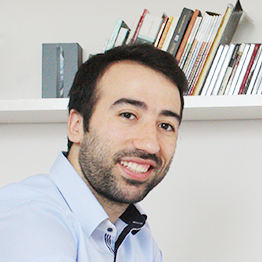
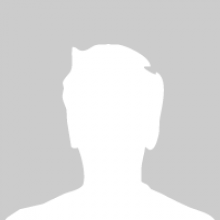
Theme Customization
Cover Image, Avatar, Title, header and footer custom codes can set from
Theme Customization section on Wp Panel.

diff --git a/functions.php b/functions.php
@@ -88,3 +88,188 @@ function set_infinite_scrolling()
 
 add_action('wp_footer', 'set_infinite_scrolling', 100);
 
+
+// --------------------------------------------------------
+// Theme Customizations
+
+include_once ABSPATH . 'wp-includes/class-wp-customize-control.php';
+
+class S_Report_Textarea_Custom_Control extends WP_Customize_Control {
+
+  public $type = 'textarea';
+  public $statuses;
+  public function __construct( $manager, $id, $args = array() ) {
+
+  $this->statuses = array( '' => __( 'Default', 's-report' ) );
+    parent::__construct( $manager, $id, $args );
+  }
+
+  public function render_content() {
+    ?>
+    <label>
+      <span class="customize-control-title"><?php echo esc_html( $this->label ); ?></span>
+      <textarea class="large-text" cols="20" rows="5" <?php $this->link(); ?>>
+        <?php echo esc_textarea( $this->value() ); ?>
+      </textarea>
+    </label>
+    <?php
+  }
+}
+
+function s_report_customize_register( $wp_customize ) {
+
+
+  // FAVICON 
+  $wp_customize->add_setting('s_report_theme_options[favicon]', array(
+    'default' => '',
+    'capability' => 'edit_theme_options',
+    'type' => 'option',
+  ));
+  $wp_customize->add_control( new WP_Customize_Image_Control($wp_customize, 'favicon', array(
+    'label' => __('Site Favicon', 's-report'),
+    'section' => 'title_tagline',
+    'settings' => 's_report_theme_options[favicon]',
+  )));
+
+  // CUSTOM HEADER
+  $wp_customize->add_section('s_report_cover_image', array(
+    'title'    => __('Cover image', 's-report'),
+    'priority' => 50,
+  ));
+
+  $wp_customize->add_setting('s_report_theme_options[header_background_image]', array(
+    'default' => get_template_directory_uri().'/img/cover.jpg',
+    'capability' => 'edit_theme_options',
+    'type' => 'option',
+  ));
+  $wp_customize->add_control( new WP_Customize_Image_Control($wp_customize, 'header_background_image', array(
+    'label' => __('Header Image', 's-report'),
+    'section' => 's_report_cover_image',
+    'settings' => 's_report_theme_options[header_background_image]',
+  )));
+  
+  // CUSTOM AVATAR
+  $wp_customize->add_section('s_report_avatar_image', array(
+    'title'    => __('Avatar photo', 's-report'),
+    'priority' => 60,
+  ));
+
+  $wp_customize->add_setting('s_report_theme_options[avatar_image]', array(
+    'default' => get_template_directory_uri().'/img/avatar.png',
+    'capability' => 'edit_theme_options',
+    'type' => 'option',
+  ));
+  $wp_customize->add_control( new WP_Customize_Image_Control($wp_customize, 'avatar_image', array(
+    'label' => __('Avatar Photo', 's-report'),
+    'section' => 's_report_avatar_image',
+    'settings' => 's_report_theme_options[avatar_image]',
+  )));
+  
+  $wp_customize->add_setting('s_report_theme_options[avatar_alt]', array(
+      'default' => 'avatar',
+      'capability' => 'edit_theme_options',
+      'type' => 'option',
+  ));
+  $wp_customize->add_control( new WP_Customize_Control($wp_customize, 'avatar_alt', array(
+    'label'    => __('Alt Text (Name, Description, etc ...)', 's-report'),
+    'section'  => 's_report_avatar_image',
+    'settings' => 's_report_theme_options[avatar_alt]',
+  )));
+
+  // CUSTOM CODE 
+  $wp_customize->add_section('s_report_custom_code', array(
+    'title'    => __('Custom Code', 's-report'),
+    'priority' => 200,
+  ));
+
+  $wp_customize->add_setting('s_report_theme_options[header_code]', array(
+      'default' => '',
+      'capability' => 'edit_theme_options',
+      'type' => 'option',
+  ));
+  $wp_customize->add_control( new S_Report_Textarea_Custom_Control($wp_customize, 'header_code', array(
+    'label'    => __('Header Code (Meta tags, CSS, etc ...)', 's-report'),
+    'section'  => 's_report_custom_code',
+    'settings' => 's_report_theme_options[header_code]',
+  )));
+  
+  $wp_customize->add_setting('s_report_theme_options[footer_code]', array(
+    'default' => '',
+    'capability' => 'edit_theme_options',
+    'type' => 'option',
+  ));
+  $wp_customize->add_control( new S_Report_Textarea_Custom_Control($wp_customize, 'footer_code', array(
+    'label'    => __('Footer Code (Analytics, etc ...)', 's-report'),
+    'section'  => 's_report_custom_code',
+    'settings' => 's_report_theme_options[footer_code]'
+  )));
+}
+add_action( 'customize_register', 's_report_customize_register' );
+
+/**
+ * Get Theme options
+ */
+function s_report_get_theme_option( $option_name, $default = false ) {
+  $options = get_option( 's_report_theme_options' );
+  if( isset($options[$option_name]) && ! empty( $options[$option_name] ) ) {
+    return $options[$option_name];
+  }
+  return $default; 
+}
+
+/**
+ * Header code
+ */
+if( ! function_exists('header_code') ) {
+  function header_code(){
+    $header_code = s_report_get_theme_option('header_code');
+    if ($header_code) {
+      echo $header_code;
+    }
+  }
+  add_action( 'wp_head', 'header_code' );
+}
+
+/**
+ * Footer code
+ */
+if( ! function_exists('footer_code') ) {
+  function footer_code(){
+    $footer_code = s_report_get_theme_option('footer_code');
+    if ($footer_code) {
+      echo $footer_code;
+    }
+  }
+  add_action( 'wp_footer', 'footer_code' );
+}
+
+/**
+ * Favicon
+ */
+function s_report_favicon(){
+  $favicon = s_report_get_theme_option('favicon');
+  if ($favicon) {
+    echo '<link rel="shortcut icon" href="'.$favicon.'">';
+  }
+}
+add_action( 'wp_head', 's_report_favicon' );
+
+/**
+ * Custom Header
+ */
+function s_report_custom_header() {
+  $header_image = s_report_get_theme_option('header_background_image');
+    ?>
+    <style type="text/css" media="screen">
+    <?php if ( $header_image ) { ?>
+    .SiteHeader {
+      background-image: url(<?php echo $header_image ?>);
+    }
+    <?php } ?>
+
+    </style>    
+    <?php
+}
+add_action( 'wp_head', 's_report_custom_header' );
+// --------------------------------------------------------
+// Theme Customizations

diff --git a/header.php b/header.php
@@ -39,10 +39,10 @@
 
 <header class="SiteHeader">
     <div class="Content">
-        <img class="SiteHeader_avatar" src="<?php echo get_template_directory_uri(); ?>/img/avatar.png" alt="adem ilter"/>
+        <img class="SiteHeader_avatar" src="<?php echo s_report_get_theme_option('avatar_image', get_template_directory_uri().'/img/avatar.png') ?>" alt="<?php echo s_report_get_theme_option('avatar_alt', 'avatar') ?>"/>
 
-        <h1 class="SiteHeader_title">Adem ilter<span class="light">'s Timeline</span></h1>
+        <h1 class="SiteHeader_title"><?php bloginfo('name'); ?><span class="light"> <?php bloginfo('description'); ?></span></h1>
 
-        <p class="SiteHeader_last-update">Last update: <strong>23 min ago</strong></p>
+        <p class="SiteHeader_last-update"><?php _e('Last Update', 's-report'); ?>: <strong><time><?php printf( __( '%s ago', 's-report' ), human_time_diff(get_post_time('U'), current_time('timestamp')) ); ?></time></strong></p>
     </div>
 </header>
